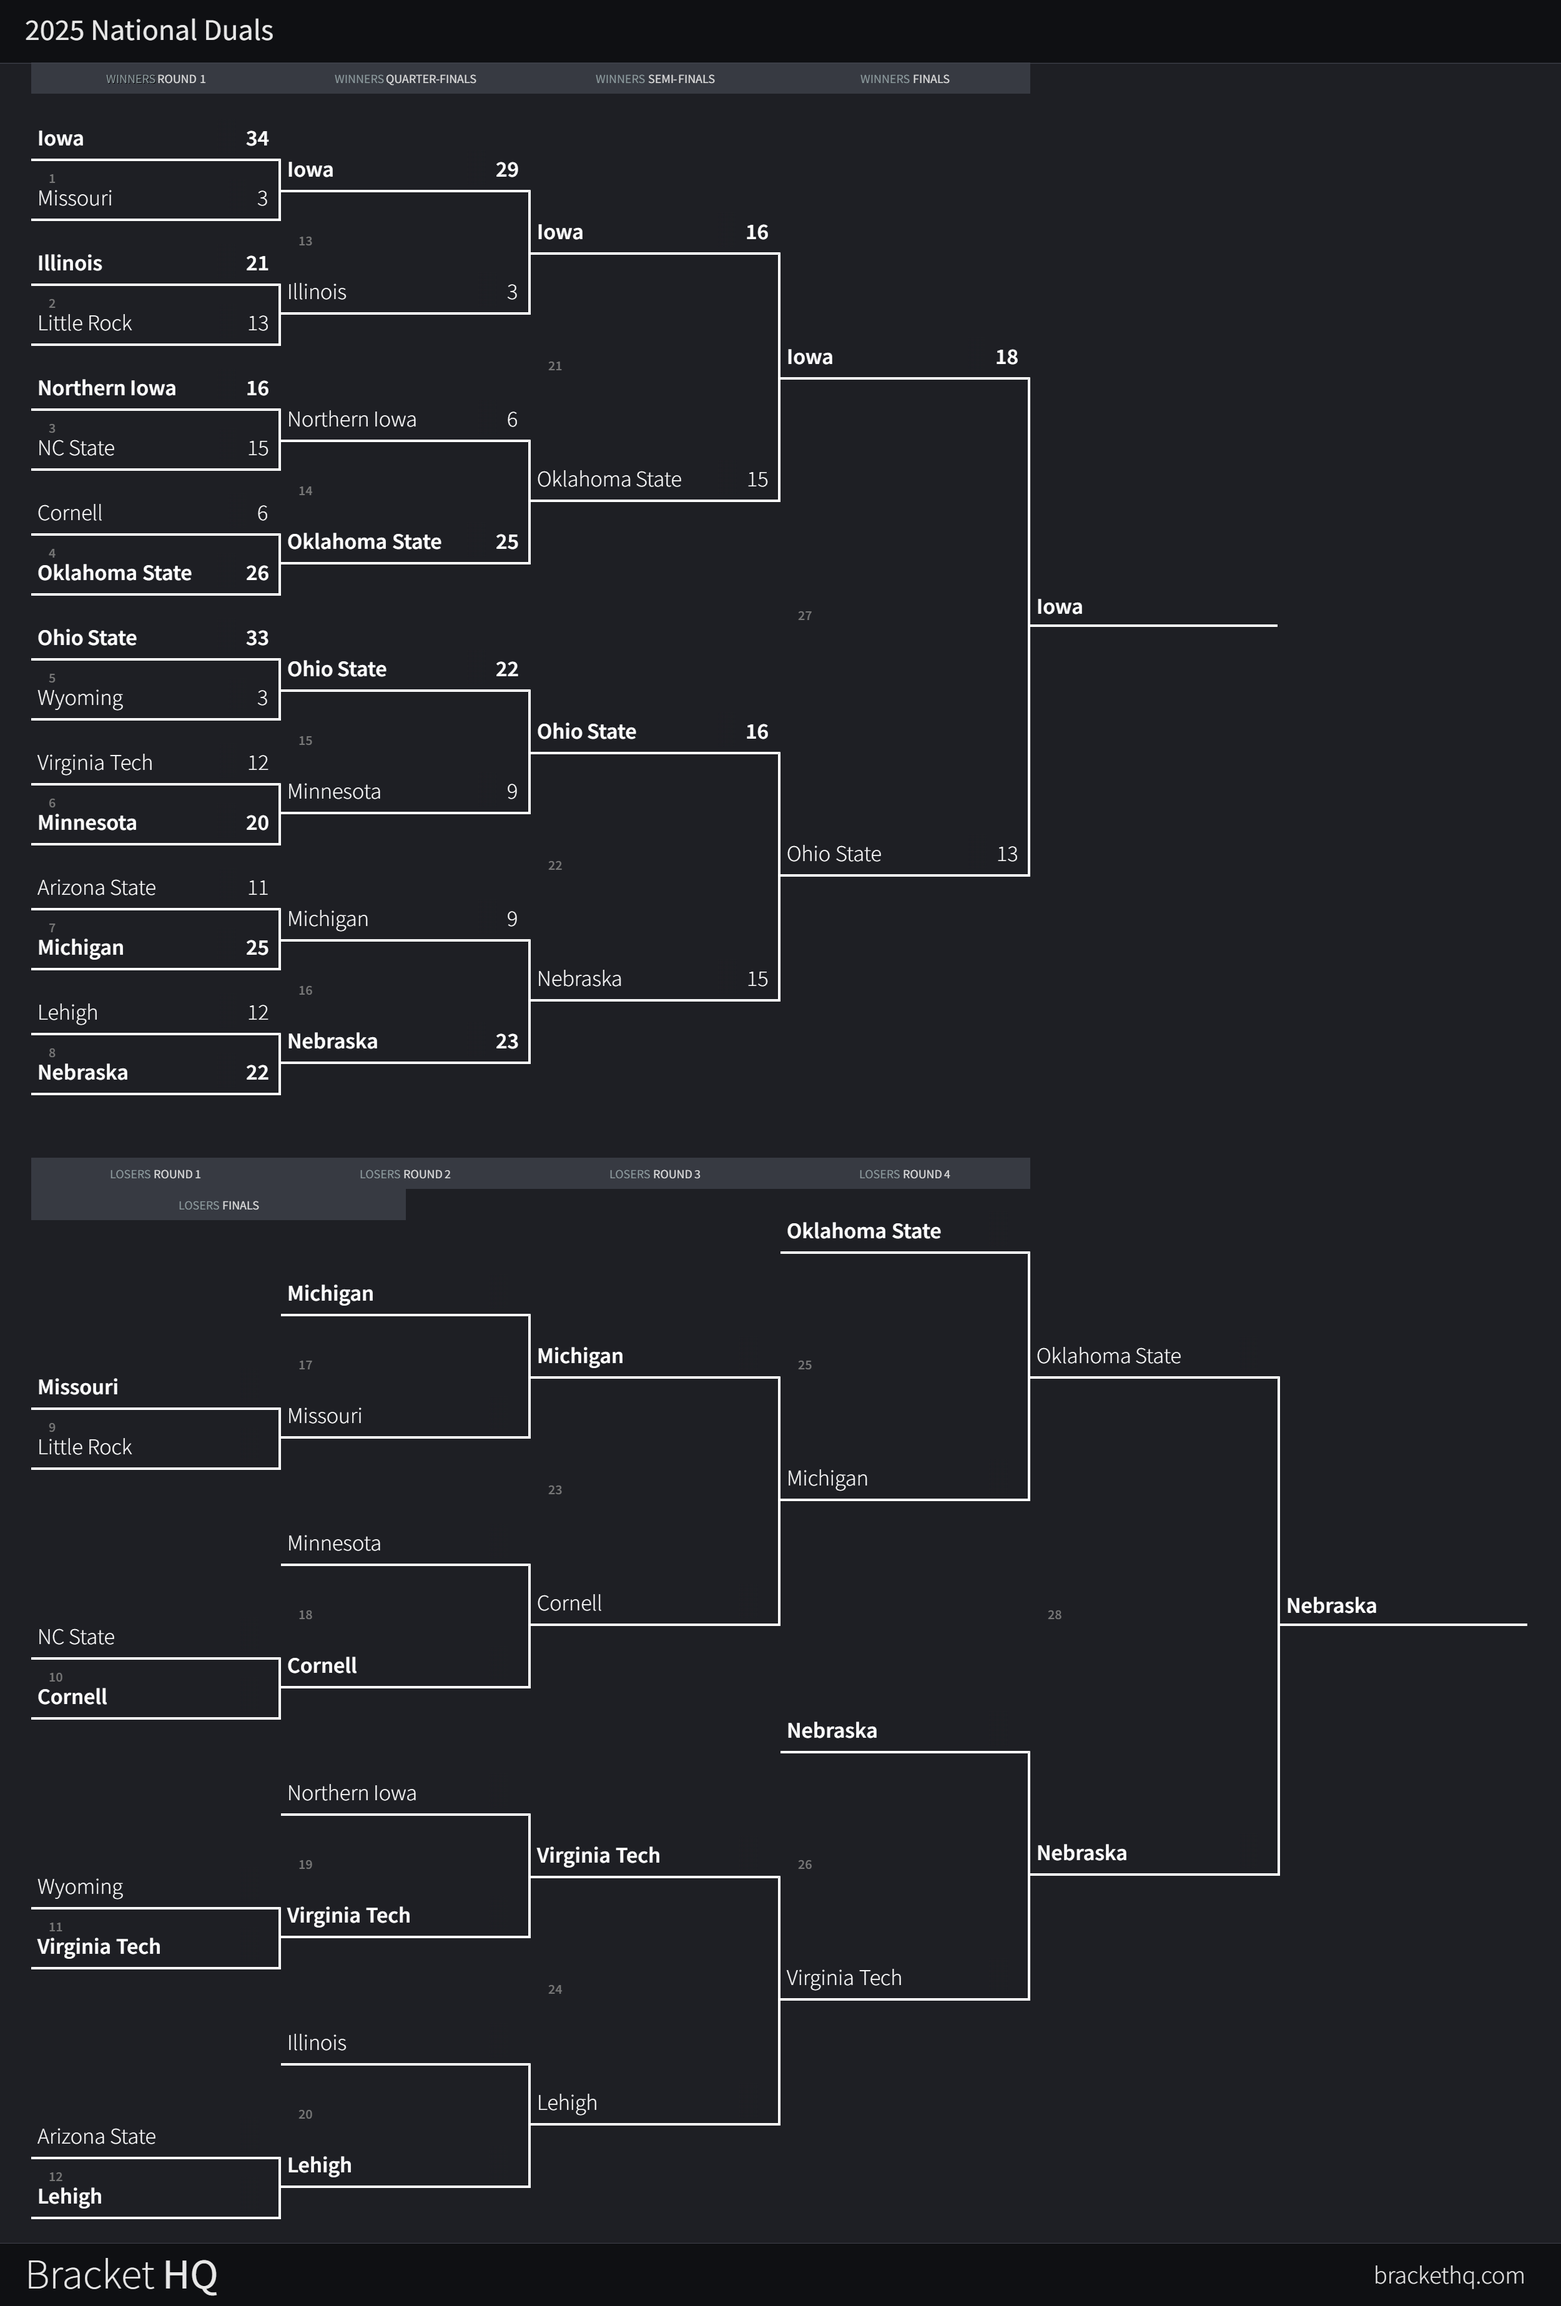
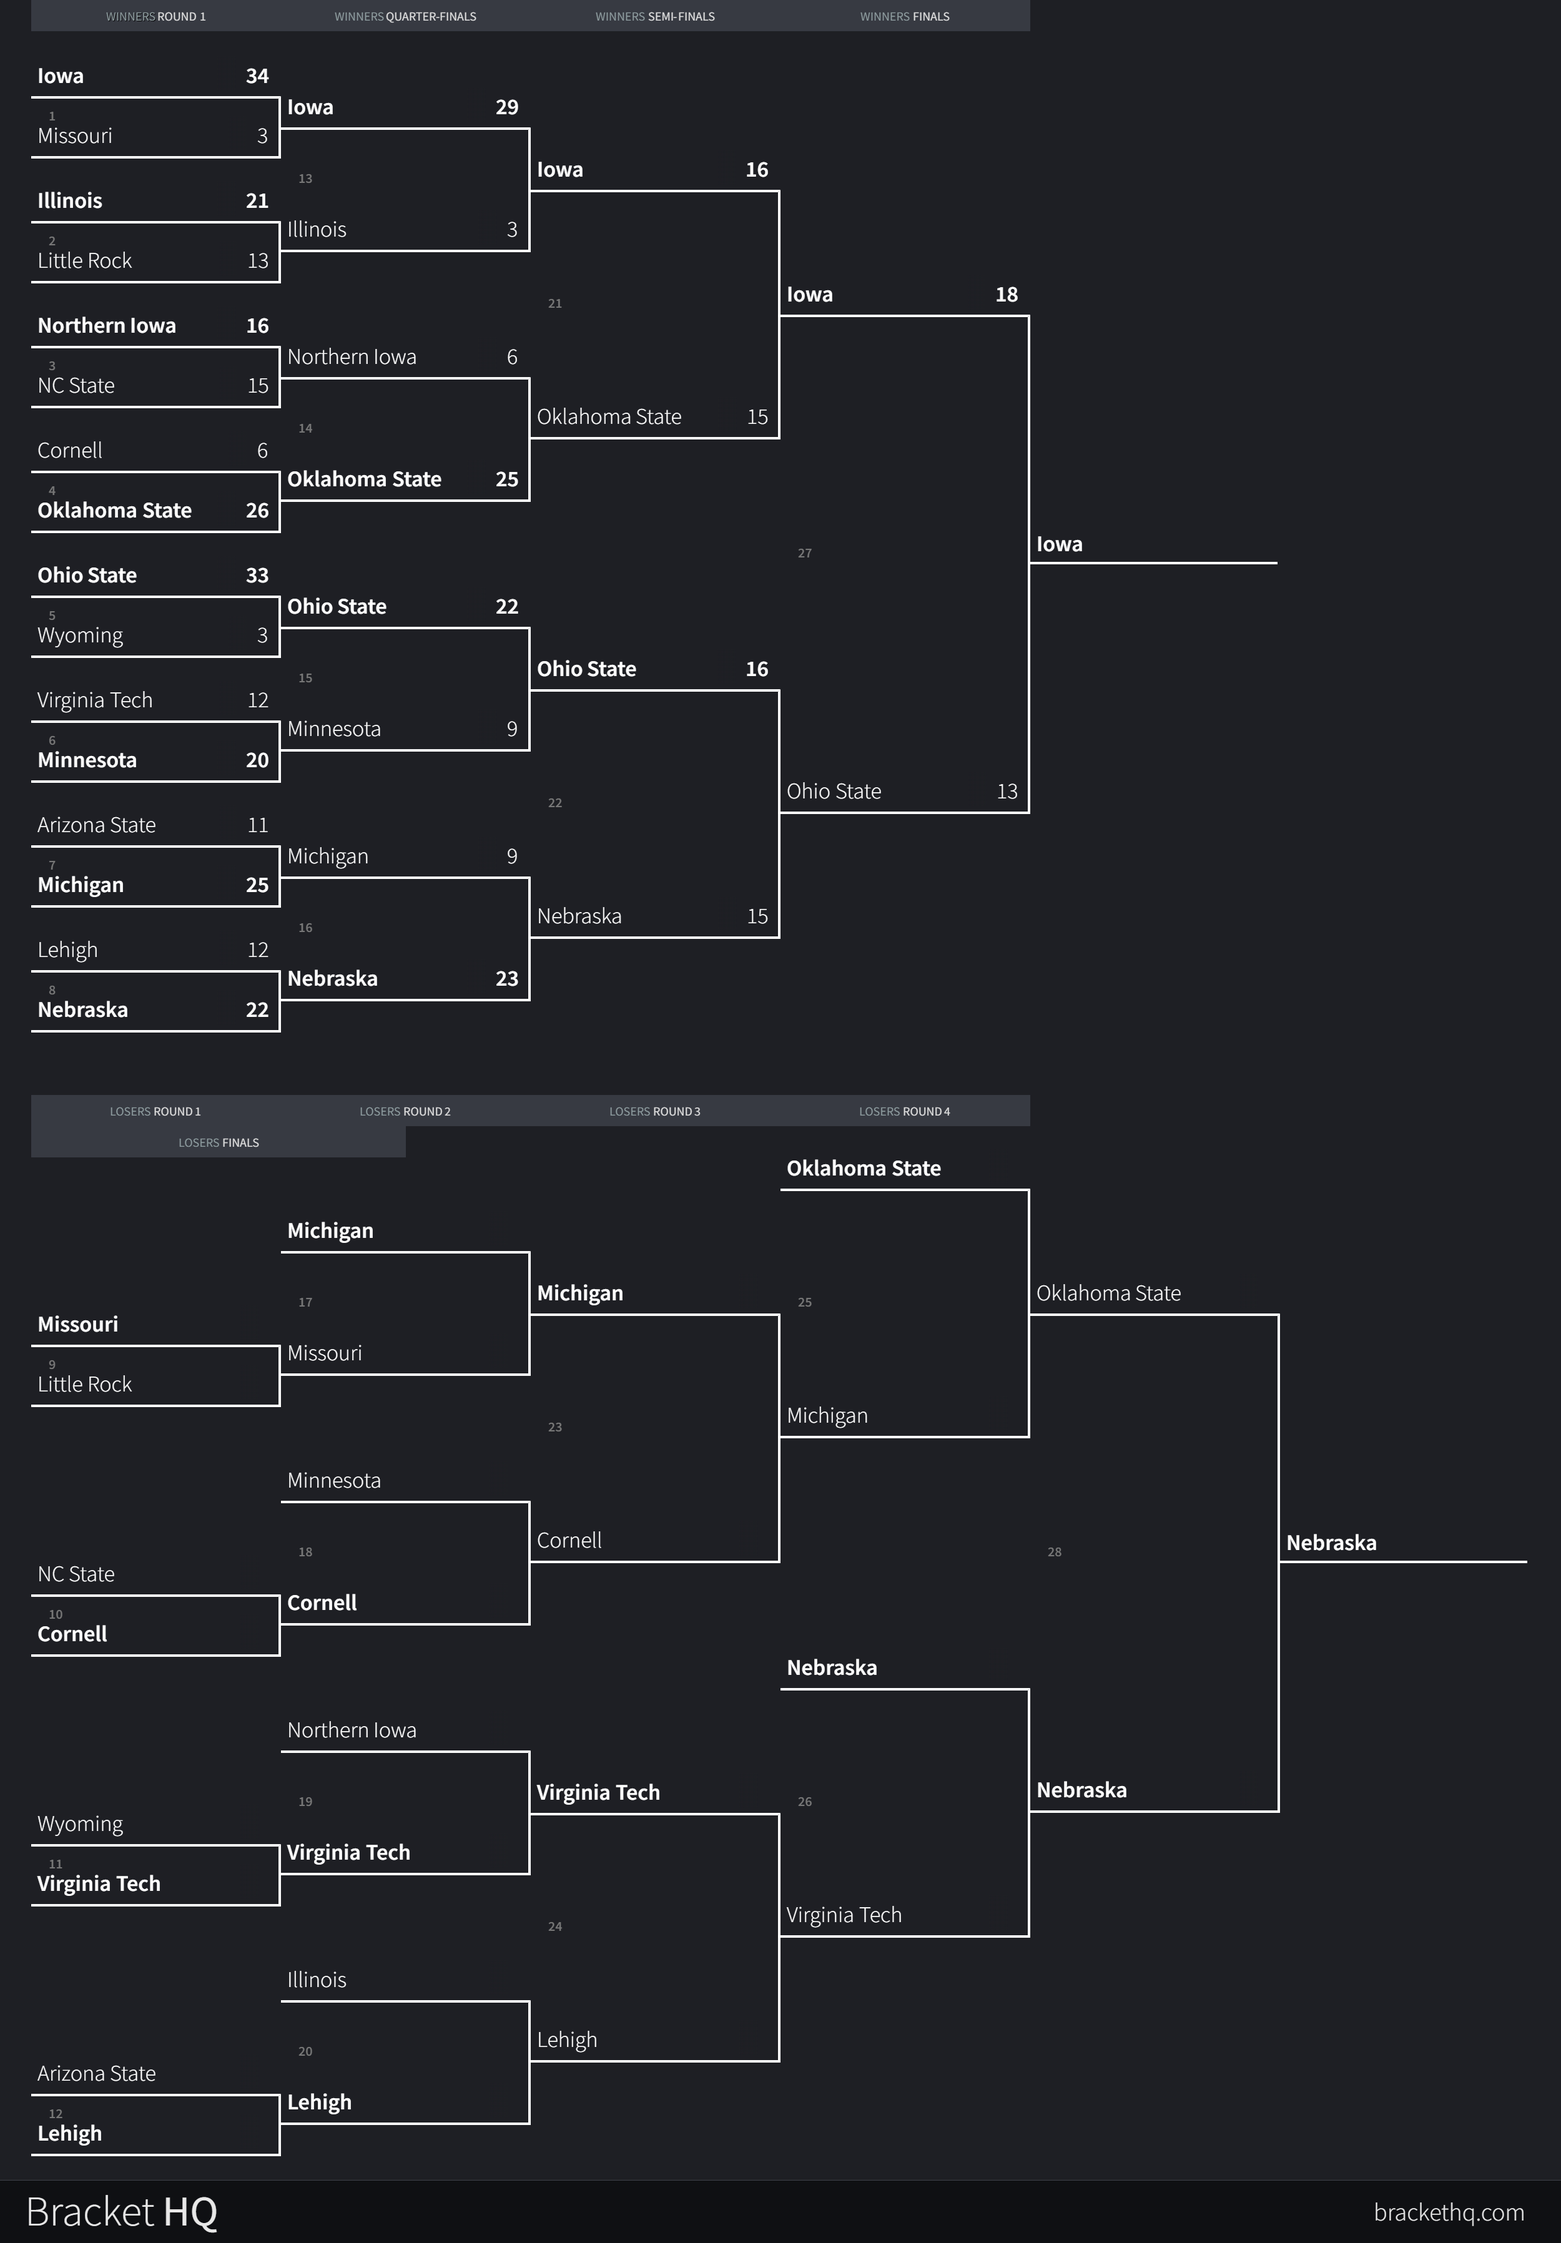
trying to add bracket still

diff --git a/public/news/index.html b/public/news/index.html
@@ -23,7 +23,7 @@
     <div class="newsDiv">
         <h3>2025 National Duals Predictions!</h3>
         <p>The 2025 National Duals are this weekend, here are my predictions for the event: 
-            <a href="images/2025-National-Duals.png" target="_blank">2025 National Duals Predictions</a>
+            <a href="/news/national-duals-2025.html" target="_blank">2025 National Duals Predictions</a>
         </p>
     </div>
     <div class="newsDiv">

diff --git a/public/news/national-duals.html b/public/news/national-duals.html
@@ -1,0 +1,15 @@
+<!DOCTYPE html>
+<html>
+<head>
+    <meta charset="UTF-8">
+    <title>2025 National Duals Predictions</title>
+    <link rel="stylesheet" href="/styles.css">
+</head>
+<body class="content">
+    <h1>2025 National Duals Predictions</h1>
+
+    <img src="/images/2025-National-Duals.png" alt="2025 National Duals" style="max-width:100%; height:auto;">
+
+    <p>Your predictions go here…</p>
+</body>
+</html>
